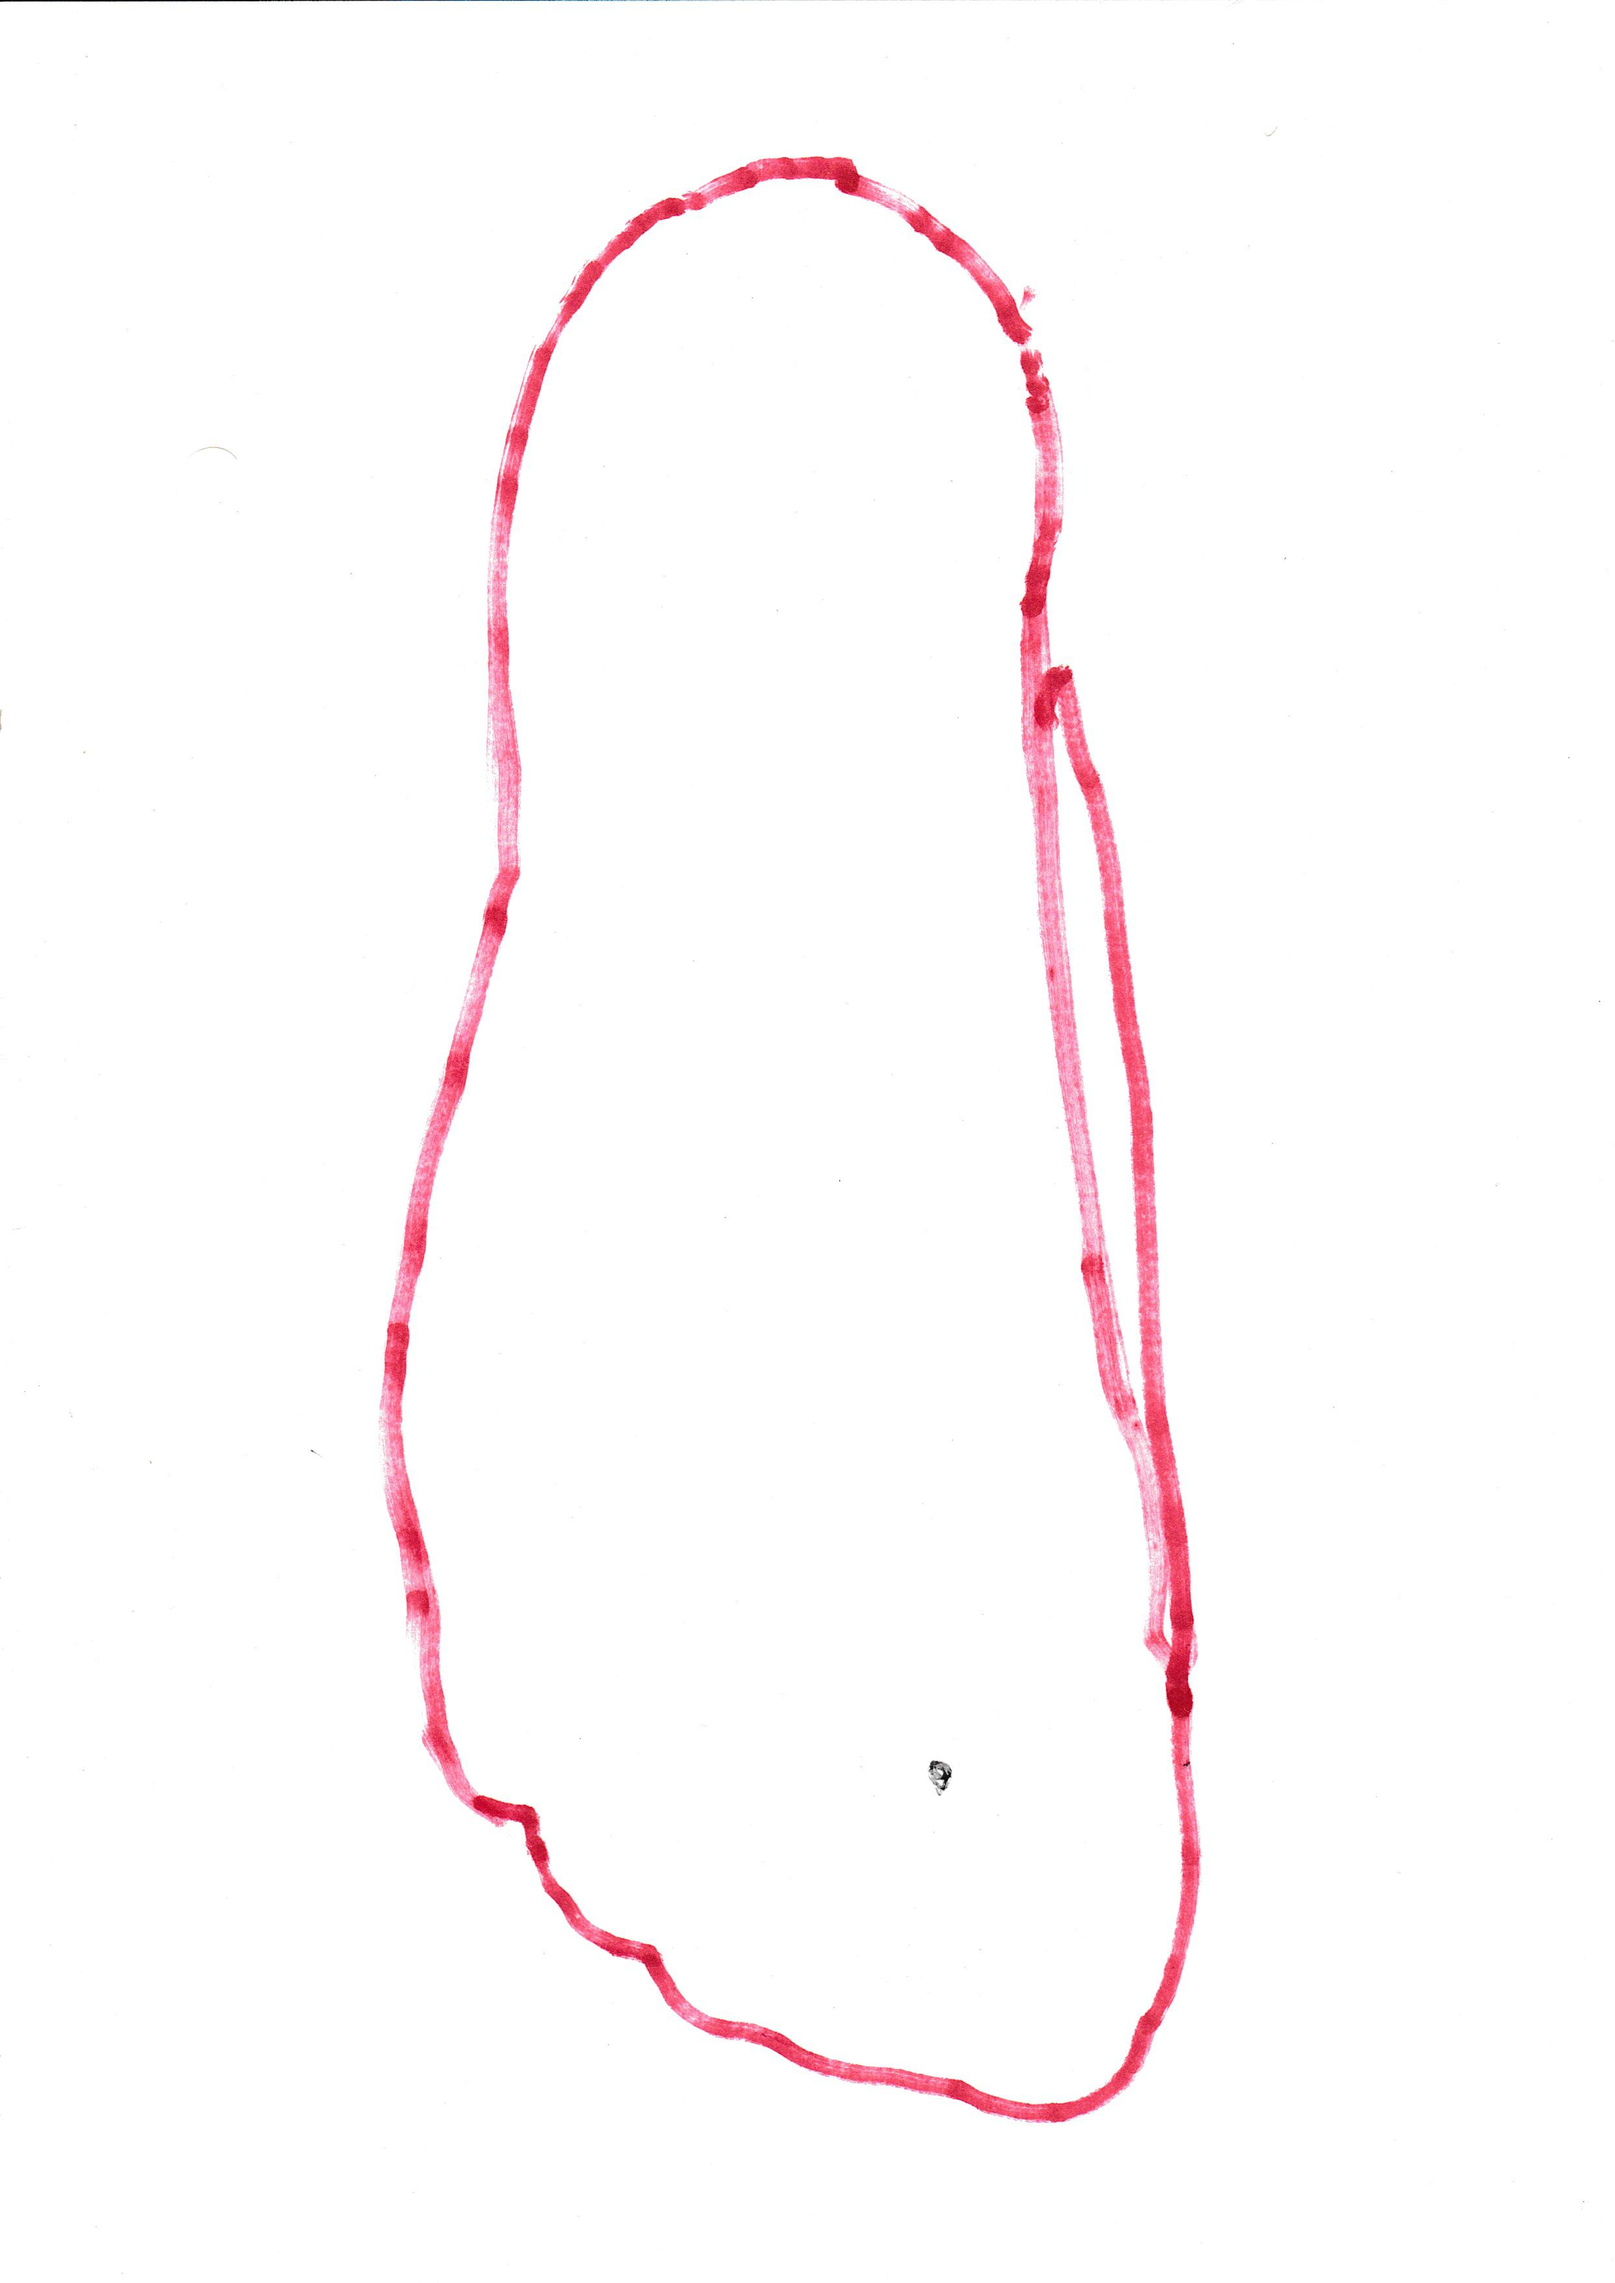
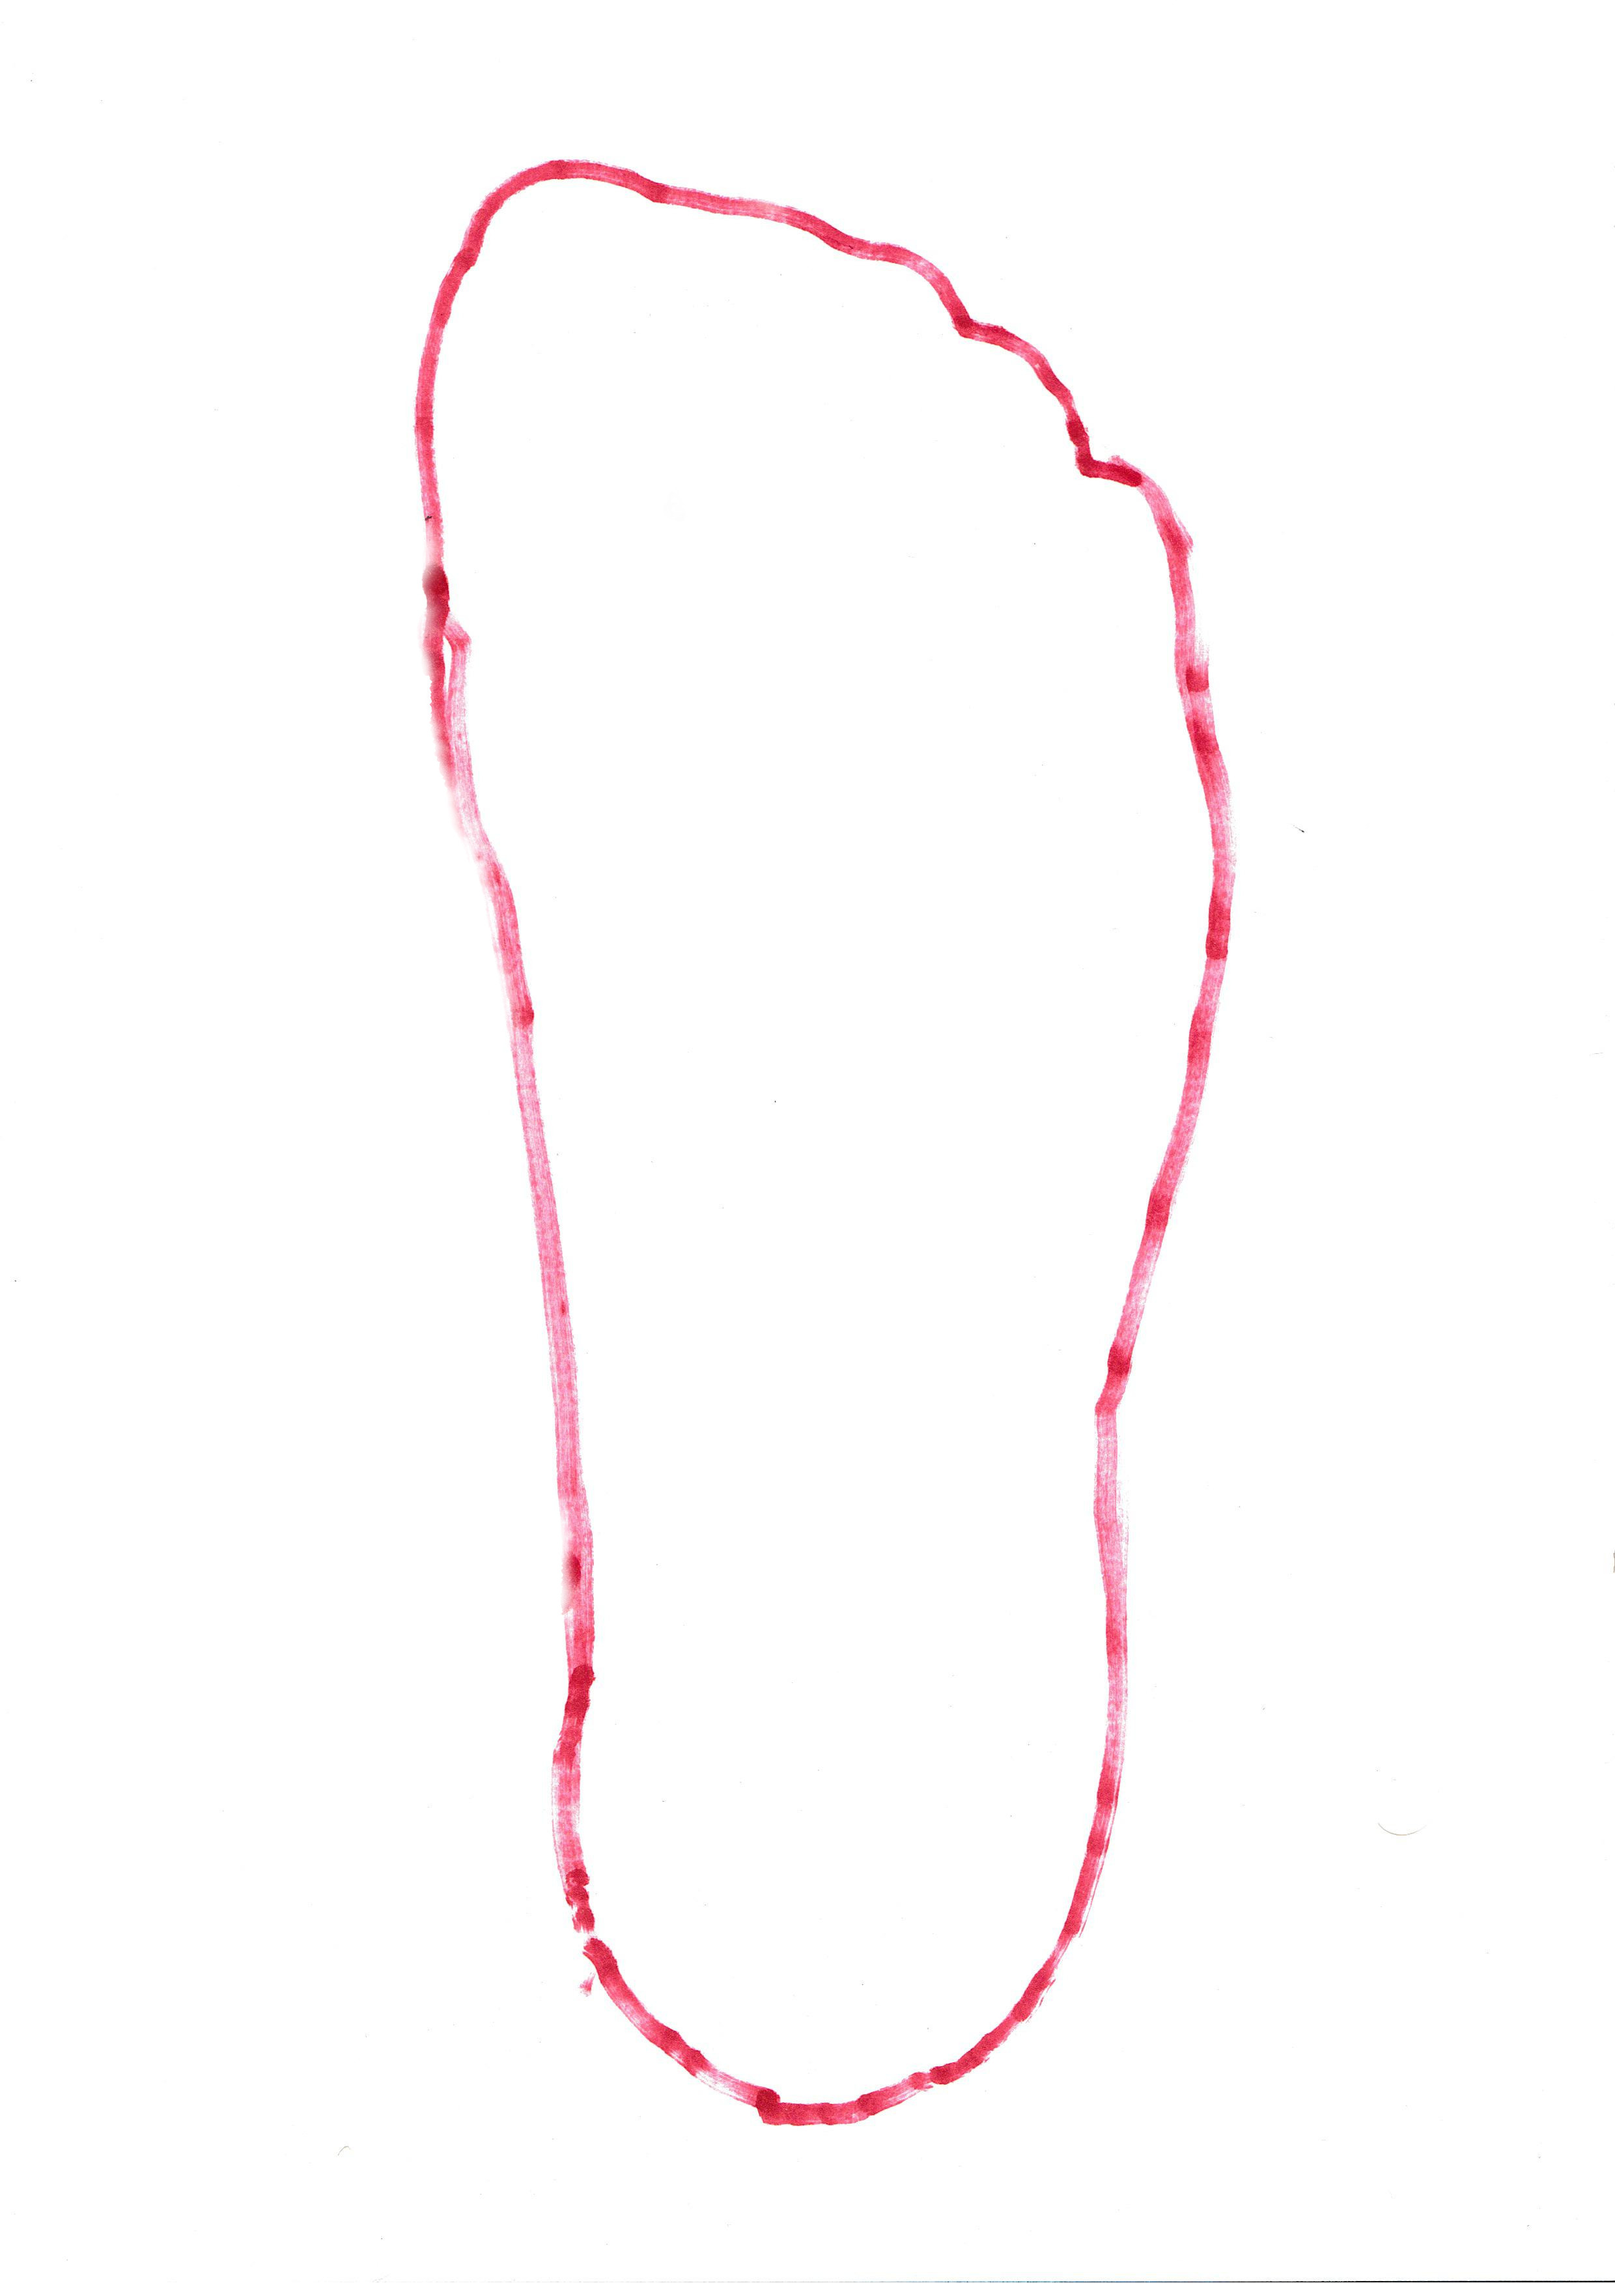
going to test out a seperate image designed to find hole in sandal

Changed region(s): [[0.2173, 0.0622, 0.7762, 0.933], [0.5589, 0.9951, 1.0, 1.0]]

diff --git a/TemplateCreator.py b/TemplateCreator.py
@@ -53,7 +53,7 @@ def img2Array(image):
 	return x_new, y_new
 
 
-outline = load_image("/home/benjamin/Documents/Projects/RAM/right2.jpg")
+outline = load_image("/home/benjamin/Documents/Projects/RAM/right.jpg")
 
 enhanced_outline = enhance_image(outline)
 enhanced_outline.save("enhanced.jpg")
